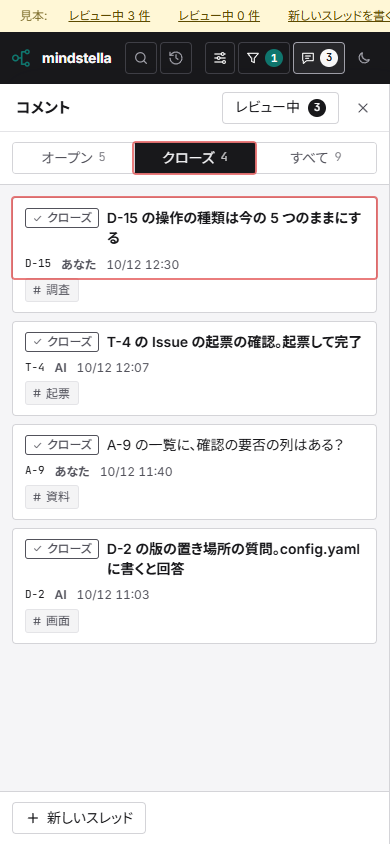
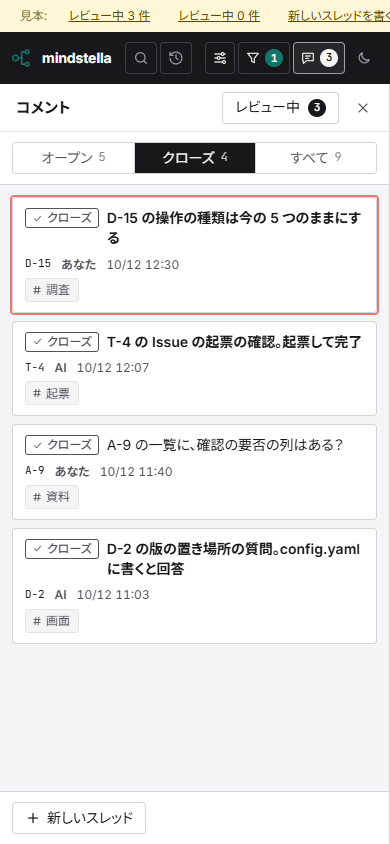
docs: 採用した案を上の階層の索引へ書き、赤枠がずれていた画像を撮り直す (#235)

diff --git a/dev/mock/pages/index.md b/dev/mock/pages/index.md
@@ -12,8 +12,8 @@
 | [graph](./graph/index.md) | ネットワーク | [21 / standard](./graph/21/standard/index.html) |
 | [detail-panel](./detail-panel/index.md) | 詳細パネル | [21 / standard](./detail-panel/21/standard/index.html) |
 | [detail-full](./detail-full/index.md) | 詳細の全画面 | [21 / standard](./detail-full/21/standard/index.html) |
-| [comments](./comments/index.md) | コメントの一覧 | - |
-| [comment-thread](./comment-thread/index.md) | スレッド 1 件（コメントの一覧で開く） | - |
+| [comments](./comments/index.md) | コメントの一覧 | [235 / a2-open-thread](./comments/235/a2-open-thread/index.html) |
+| [comment-thread](./comment-thread/index.md) | スレッド 1 件（コメントの一覧で開く） | [235 / a-reason-before](./comment-thread/235/a-reason-before/index.html) |
 | [comment-review](./comment-review/index.md) | レビュー中を確かめる画面（コメントの一覧で開く） | - |
 | [settings-panel](./settings-panel/index.md) | 表示の設定 | - |
 | [settings-save-confirm](./settings-save-confirm/index.md) | ワークスペースの既定の確かめ | - |

diff --git a/dev/mock/pages/comments/index.md b/dev/mock/pages/comments/index.md
@@ -4,6 +4,6 @@
 
 | Issue / PR | タイトル | 採用案 |
 | --- | --- | --- |
-| [235](./235/index.md) | コメントをスレッドにし、AI が返信・質問でき、オープン・クローズと要約を持てるようにする | - |
+| [235](./235/index.md) | コメントをスレッドにし、AI が返信・質問でき、オープン・クローズと要約を持てるようにする |[a2-open-thread](./235/a2-open-thread/index.html) |
 | [201](./201/index.md) | 画面から送ったコメントを、起動スクリプトが立てた tmux のセッションの Claude Code へすぐに入力する | - |
 | [78](./78/index.md) | プレビューのコメントをレビュー中に溜めて選んで送り、選んだ箇所へコメントできるようにする | - |

diff --git a/dev/mock/pages/comment-thread/index.md b/dev/mock/pages/comment-thread/index.md
@@ -4,4 +4,4 @@
 
 | Issue / PR | タイトル | 採用案 |
 | --- | --- | --- |
-| [235](./235/index.md) | コメントをスレッドにし、AI が返信・質問でき、オープン・クローズと要約を持てるようにする | - |
+| [235](./235/index.md) | コメントをスレッドにし、AI が返信・質問でき、オープン・クローズと要約を持てるようにする |[a-reason-before](./235/a-reason-before/index.html) |
